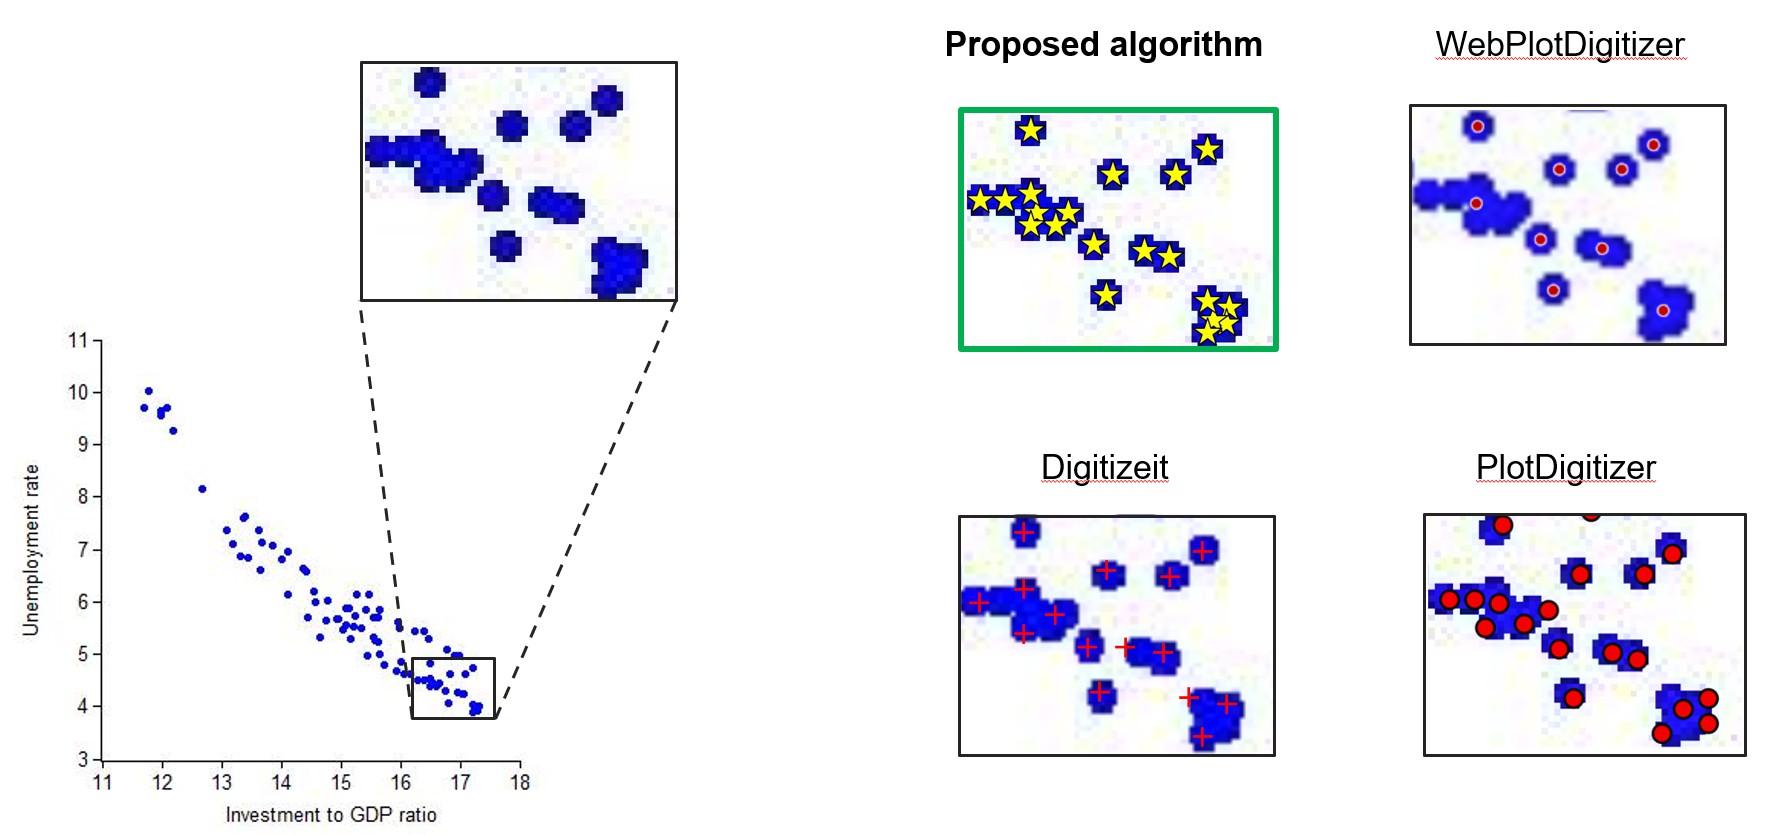
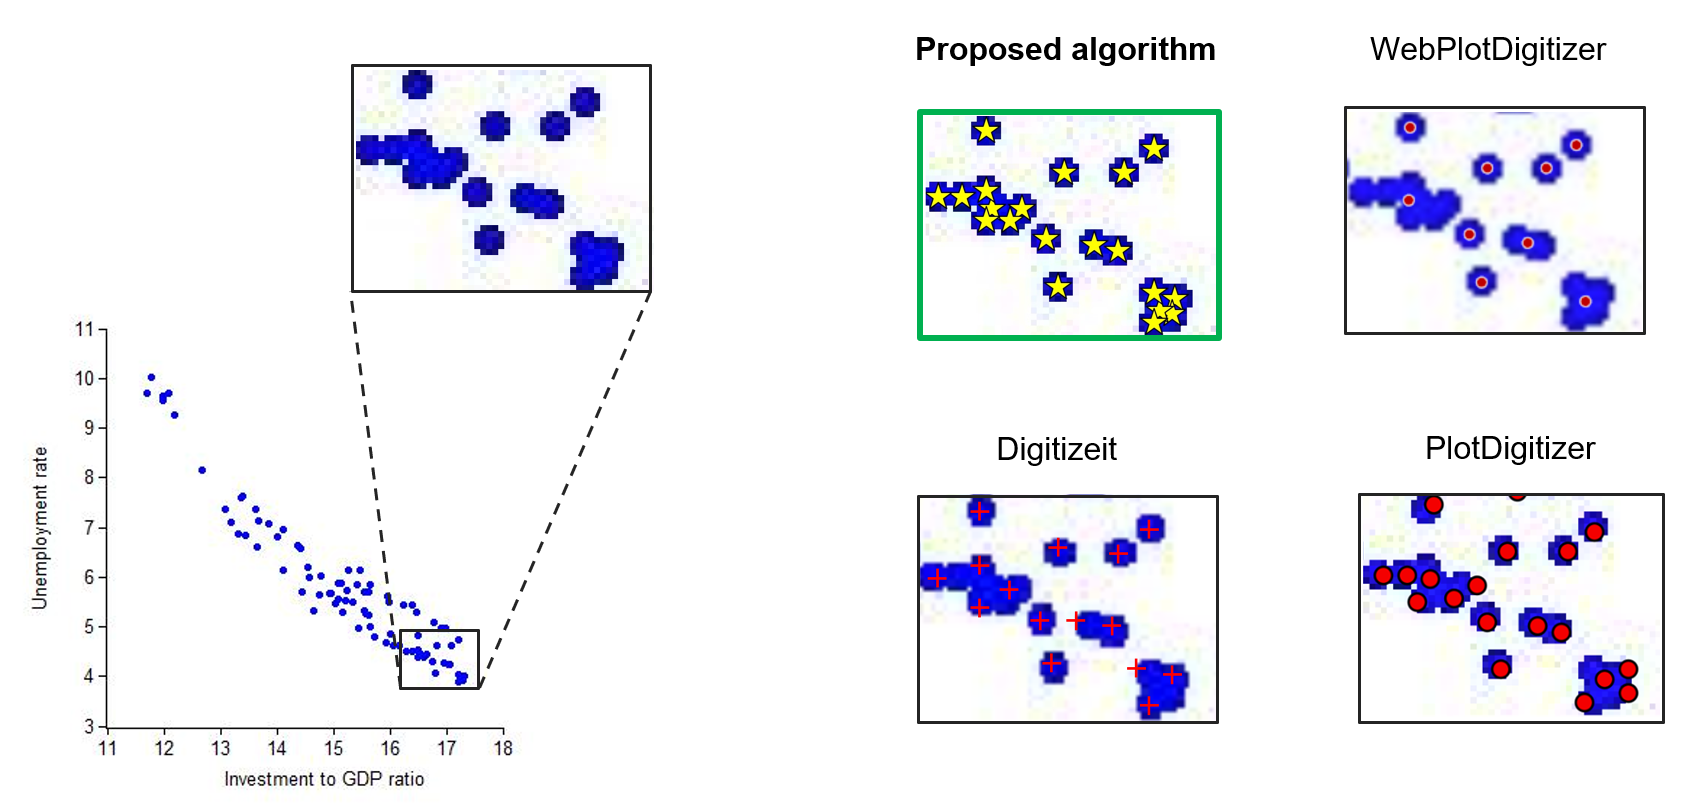
update dataset and readme pictures

diff --git a/README.md b/README.md
@@ -84,12 +84,18 @@ poetry install
 ## Algorithm results examples
 
 
-![](./docs/images/algorithm_results_examples_1.png)
+![](./docs/images/algorithm_results_examples_plot_84.png)
+plot image source: [1]
 
 <br/><br/>
 
-![](./docs/images/algorithm_results_examples_2.png)
+![](./docs/images/algorithm_results_examples_plot_67.png)
+plot image source: [2]
 
+<br/><br/>
+
+![](./docs/images/algorithm_results_examples_plot_22.png)
+plot image source: [3]
 
 
 ---
@@ -121,3 +127,18 @@ Proposed algorithm was compared with existing tools for plot digitization:
 - [ ] Adding opportunity to manually edit detected data points
 - [ ] Improving the accuracy of the algorithm on b/w images
 - [ ] Implementation of the graphical user interface for the algorithm
+
+
+---
+
+## References
+
+Plot image sources:
+
+
+**[1]** &emsp; Meister M, Schall E, Dziak R, Spiesecke S, Thomisch K (2024) A multi-year analysis of acoustic occurrence and habitat use of blue and fin whales in eastern and central Fram Strait. PLoS ONE19(11): e0314369. https://doi.org/10.1371/journal.pone.0314369
+
+**[2]** &emsp; Darcel, C., Davy, P., Le Goc, R., de Dreuzy, J. R., &   Bour, O. (2009). Statistical methodology for discrete fracture model-including fracture size, orientation uncertainty together with intensity uncertainty and variability. 
+
+
+**[3]** &emsp; Bonnet, E., Bour, O., Odling, N. E., Davy, P., Main, I., Cowie, P., & Berkowitz, B. (2001). Scaling of fracture systems in geological media. Reviews of geophysics, 39(3), 347-383.
